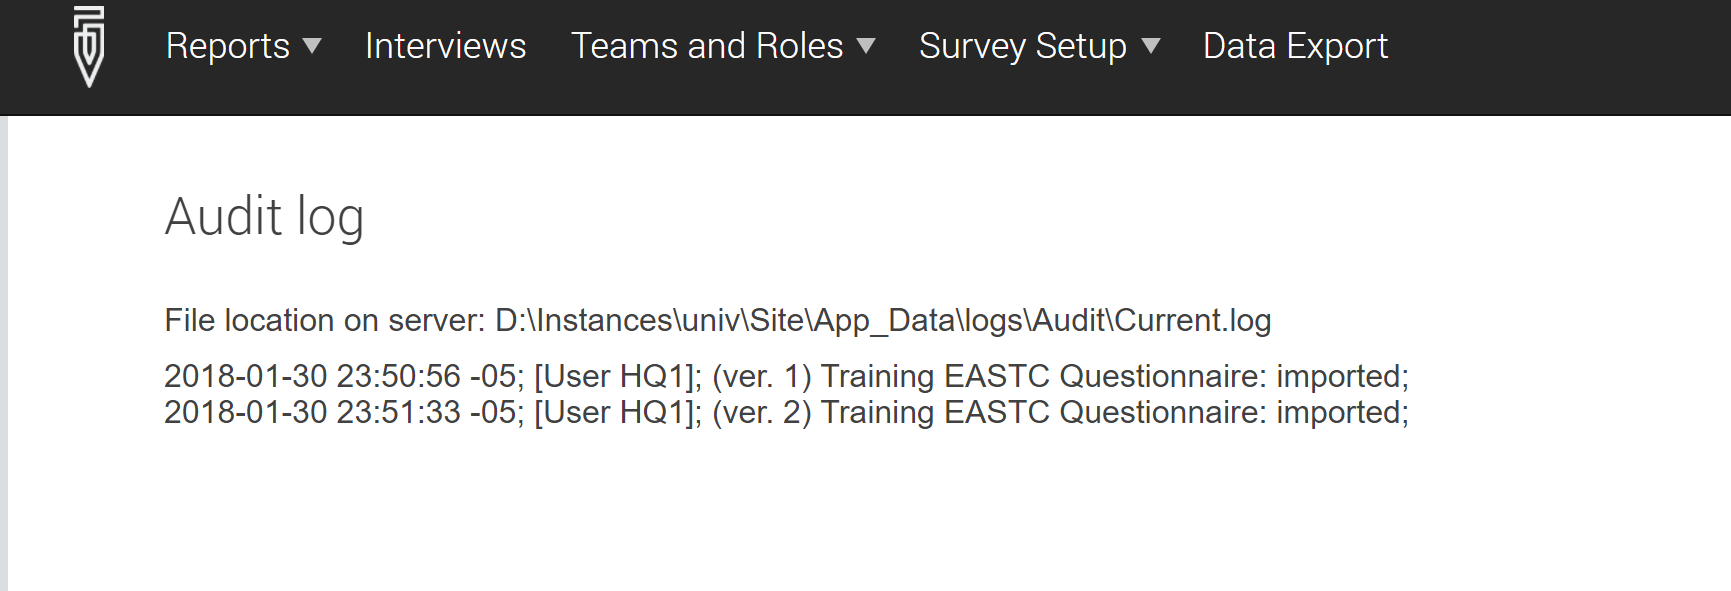
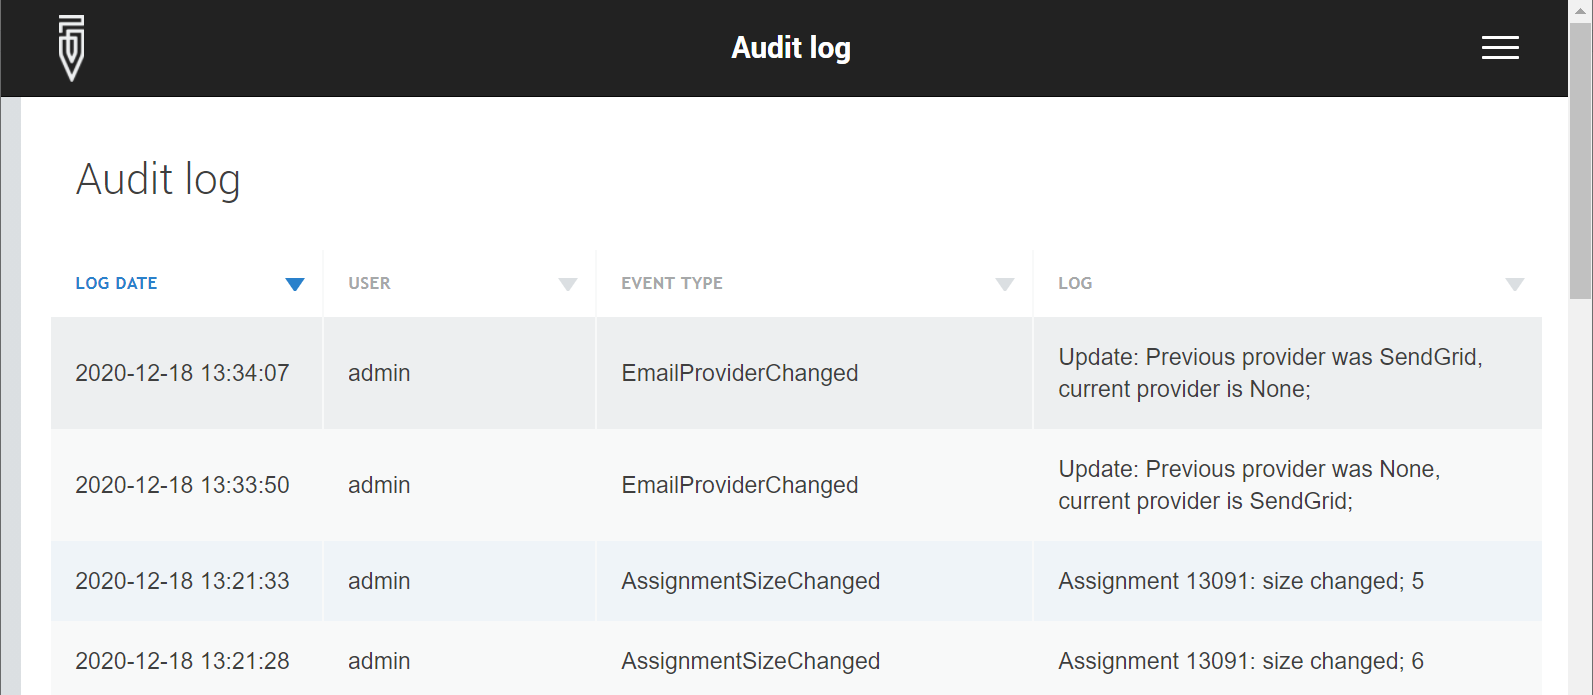
Added link to AWS setup instructions and revised the audit log article.

diff --git a/content/headquarters/svymanage/audit-log/index.md b/content/headquarters/svymanage/audit-log/index.md
@@ -2,28 +2,64 @@
 title = "Server Audit Log"
 keywords = ["admin", "Audit Log"]
 date = 2019-08-04T22:22:22Z
-lastmod = 2019-08-04T22:22:22Z
+lastmod = 2020-12-17T22:22:22Z
 
 +++
 
-Survey Solutions server [administrator](/headquarters/accounts/survey-solutions-server-administrator/) 
-may inspect the server audit log. The audit log lists important events that were initiated by the users on the server, identifying who
-made that action, and when.
+Survey Solutions server [administrator](/headquarters/accounts/survey-solutions-server-administrator/)
+may inspect the server audit log. The audit log lists important events that were initiated by the users on the server, identifying who made that action, and when.
 
 For actions of interviewers, see the [detailed actions log](/headquarters/reporting/detailed-action-log/).
 
+To view the server audit log, the admin user should proceed to `Menu` &#x2192; `Administration` &#x2192; `Audit log`.
+
+{{< imgproc "images/852912.png" Fit "800x600" />}}
+
+The log data can be exported in a form of a downloadable file in any of the following formats:
+
+* XLSX (Excel or compatible),
+* TAB (TAB-delimited values),
+* CSV (comma separated values).
+
 The following actions/events are recorded in the audit log on the server:
 
-<OL>
-  <LI> survey questionnaire imported;
-  <LI> survey data exported;
-  <LI> survey deleted (questionnaire and data);
-  <LI> [observer](/headquarters/accounts/survey-solutions-server-observer/), 
-headquarters or [API user](/headquarters/api/survey-solutions-api/) created;
-  <LI> interviewer moved from one team to another;
-  <LI> assignment size changed;
-  <LI> assignments upgraded to a newer version of the questionnaire.
-  <LI> encryption of exported data has changed.
-</OL>
-  
-{{< imgproc "images/852912.png" Fit "800x600" />}}   
+<TABLE class="table table-striped table-hover">
+  <TR><TH>Event Type</TH><TH>Logged when</TH><TH>Details</TH><TH><I>Example</I></TH></TR>
+
+  <TR><TD>ExportStared</TD><TD>a new export job is started</TD><TD>Mentions name and version of the exported survey questionnaire and the data export format.</TD><TD><I>CENSUS_INDIA_2030 v2 : exported; STATA</I></TD></TR>
+
+  <TR><TD>QuestionnaireDeleted</TD><TD>a questionnaire and associated data are deleted</TD><TD>Mentions name and version of the questionnaire being deleted.</TD><TD><I>(ver. 2) CENSUS_INDIA_2030: deleted;</I></TD></TR>
+
+  <TR><TD>QuestionnaireImported</TD><TD>a questionnaire is imported from the Designer</TD>
+  <TD>Mentions name and version of the questionnaire being imported to the HQ server from the Designer</TD><TD><I>
+(ver. 2) CENSUS_INDIA_2030: imported;</I></TD>
+  </TR>
+
+  <TR><TD>UserCreated</TD><TD>a user account is created</TD><TD>Mentions the role and login of the new user account that has been created.</TD><TD><I>Headquarter user 'Headquarters1': created;</I></TD></TR>
+
+  <TR><TD>AssignmentSizeChanged</TD><TD>an assignment size has been revised</TD><TD>Mentions assignment number and new size value.</TD><TD><I>Assignment 13091: size changed; 5</I></TD></TR>
+
+  <TR><TD>ExportEncryptionChanged</TD><TD>encryption setting (password protection) has changed (set on or off)</TD><TD>Mentions whether the encryption was set to enabled or disabled state. Does not mention the password.</TD><TD><I>Export encryption: changed; enabled'</I><BR><I>Export encryption: changed; disabled'</I></TD></TR>
+
+  <TR><TD>UserMovedToAnotherTeam</TD><TD>interviewer is moved from one team to another</TD><TD>Mentions which user was moved from which team to which team</TD><TD><I>User Natalia: moved; From team SupJohnson' to SupJackson</I></TD></TR>
+
+  <TR><TD>AssignmentsUpgradeStarted</TD><TD>an upgrade of assignments between different questionnaire versions has been started</TD><TD>Mentions questionnaire name, source version and destination version for assignment migration.</TD><TD><I>Assignments: Upgrade; From (ver. 2) to (ver. 3) CENSUS_INDIA_2030</I></TD></TR>
+
+  <TR><TD>EmailProviderWasChanged</TD><TD>change in configuration of the bulk email provider</TD>
+  <TD>Mentions the previous and current provider.</TD><TD><I>Update: Previous provider was None, current provider is SendGrid;</I></TD></TR>
+
+  <TR><TD>UsersImported</TD><TD>user accounts were created in batch mode</TD><TD>Mentions how many accounts were created in batch mode in total, and by role.</TD><TD><I>Users: Import; User Headquarters1 created 8 users in batch mode, of which 7 are interviewers and 1 supervisors</I></TD></TR>
+
+  <TR><TD>AssignmentsImported</TD><TD>new assignments were done by uploading a preloading file</TD><TD>Mentions questionnaire name and version for the imported questionnaire</TD><TD><I>(ver. 2) CENSUS_INDIA_2030: imported;</I></TD></TR>
+
+  <TR><TD>InterviewerArchived</TD><TD>an interviewer account gets archived</TD><TD>Mentions admin account name and interviewer account name that was archived.</TD><TD><I>Interviewer: Archive; User admin has archived interviewer account Natalia</I></TD></TR>
+
+  <TR><TD>InterviewerUnArchived</TD><TD>an interviewer account is restored from the archived state</TD><TD>Mentions admin account name and interviewer account name that was unarchived.</TD><TD><I>Interviewer: Unarchive; User admin has unarchived interviewer account Natalia</I></TD></TR>
+
+  <TR><TD>SupervisorArchived</TD><TD>a supervisor account gets archived</TD><TD>Mentions admin account name and supervisor account name that was archived.</TD><TD><I>Supervisor: Archive; User admin has archived supervisor account Natalia</I></TD></TR>
+
+  <TR><TD>SupervisorUnArchived</TD><TD>a supervisor account gets restored from the archived state</TD><TD>Mentions admin account name and supervisor account name that was unarchived.</TD><TD><I>Supervisor: Unarchive; User admin has unarchived supervisor account Natalia</I></TD></TR>
+</TABLE>
+
+
+  

diff --git a/content/headquarters/config/aws-setup/index.md b/content/headquarters/config/aws-setup/index.md
@@ -71,7 +71,7 @@ To find the endpoint:
 * In search bar type "Windows"
 * Select Microsoft Windows Server 2019 Base
   ![Image selection](images/ec2_image_selection.png)
-* In tier selection pick one that suites your needs. You can check for server requirements here
+* In tier selection pick one that suites your needs. You can [check for server requirements here](/faq/server-requirements/).
 * After instance is created right click on it, select Networking -> Change Security Groups and assign group Survey Solutions
   ![Assign Security Group](images/ec2_sg_assign.png)
 * Launch selected instance
